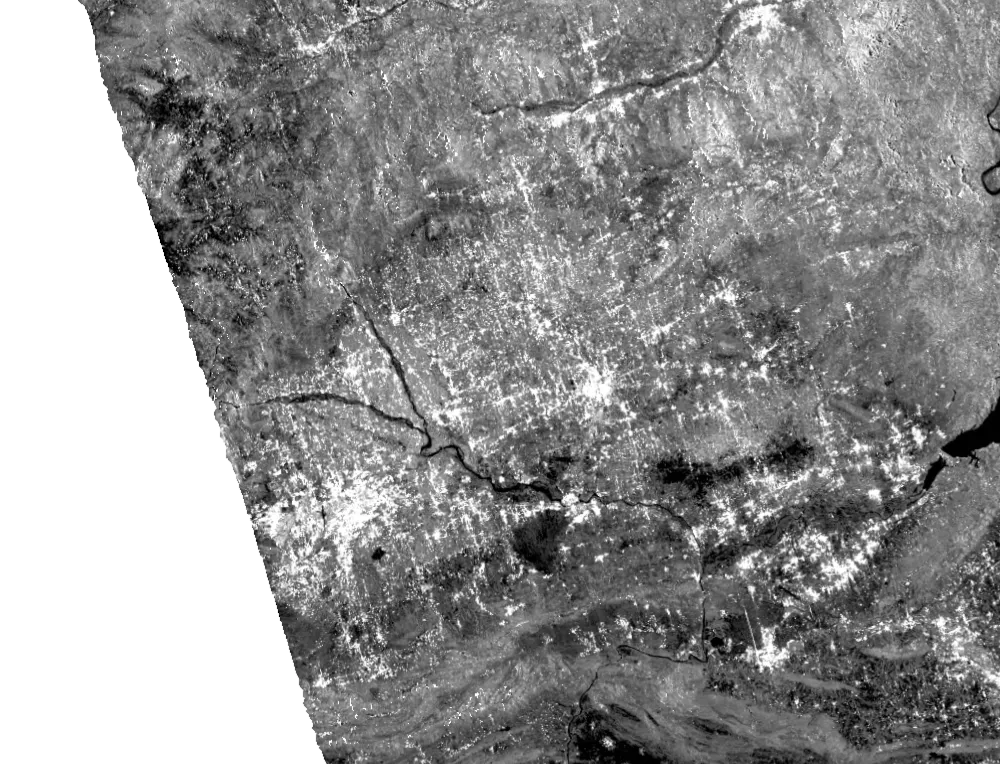
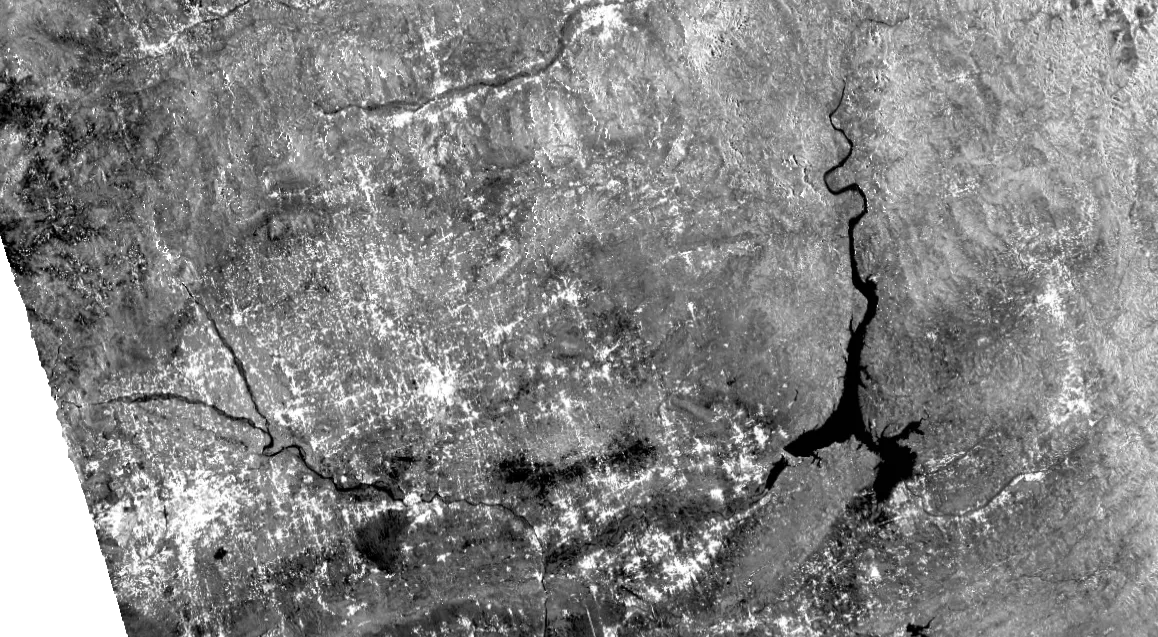
fix: shift the preview display window east and regenerate the frames
The window was 70.9 to 72.8 east, 33.6 to 34.8 north, so much of the stage was empty. It is
now 71.2 to 73.4, 33.8 to 34.8: about 96 percent of it is data on all nine dates, and the
footprint's tilted west edge (71.37 at Peshawar's latitude) stays in view. Regenerated with
run_pipeline preview; every frame keeps identical bounds. The manifest now lists acquisitions.

diff --git a/app/src/publicData.test.ts b/app/src/publicData.test.ts
@@ -25,7 +25,8 @@ describe("the data the app ships (app/public/data)", () => {
     }
     expect(manifest.crid).toBe("P05023");
     expect(manifest.gap).toEqual({ start: "2026-07-27T22:03:25Z", end: "2026-08-10T00:55:27Z" });
-    expect(manifest.bounds).toEqual([70.9, 33.6, 72.8, 34.8]);
+    expect(manifest.bounds).toEqual([71.2, 33.8, 73.4, 34.8]);
+    expect(manifest.acquisitions).toEqual(REAL_DATES);
     expect(manifest.pixel_m).toBeGreaterThan(150);
     expect(manifest.pixel_m).toBeLessThan(200);
   });

diff --git a/processing/tests/test_browse.py b/processing/tests/test_browse.py
@@ -128,6 +128,30 @@ def test_frames_share_identical_bounds_and_the_display_window(tmp_path):
     assert set(info["frames"]) == set(DATES)
 
 
+FOOTPRINTS = Path(__file__).resolve().parents[1] / "reference" / "cmr_footprints.json"
+PESHAWAR = (71.56, 34.01)
+
+
+def _west_edge_lon(corners, lat):
+    """Smallest longitude at which the footprint polygon's edges cross `lat`."""
+    lons = []
+    for (x0, y0), (x1, y1) in zip(corners, corners[1:] + corners[:1]):
+        if min(y0, y1) <= lat <= max(y0, y1) and y0 != y1:
+            lons.append(x0 + (lat - y0) / (y1 - y0) * (x1 - x0))
+    return min(lons)
+
+
+def test_display_window_keeps_the_tilted_west_edge_in_view_at_peshawar_and_is_mostly_data():
+    fps = json.loads(FOOTPRINTS.read_text(encoding="utf-8"))["footprints"]
+    west, south, east, north = DISPLAY_WINDOW
+    assert south < PESHAWAR[1] < north and west < PESHAWAR[0] < east
+    for corners in fps.values():
+        edge = _west_edge_lon(corners, PESHAWAR[1])
+        assert west < edge < PESHAWAR[0], "the footprint's west edge must be inside the window, west of Peshawar"
+        # no more than a fifth of the window's width lies west of the footprint at the window's mid latitude
+        assert _west_edge_lon(corners, (south + north) / 2) - west < 0.2 * (east - west)
+
+
 def test_frames_are_webp_with_alpha_and_transparent_fill(tmp_path):
     frames = {}
     for d in DATES:
@@ -140,7 +164,7 @@ def test_frames_are_webp_with_alpha_and_transparent_fill(tmp_path):
     rgba = np.asarray(img.convert("RGBA"))
     assert rgba[..., 3].min() == 0 and rgba[..., 3].max() == 255
     h, w = rgba.shape[:2]
-    # EXTENT spans 70.5..74.4; the window is 70.9..72.8, so the fill edge (72.45) is inside it
+    # EXTENT spans 70.5..74.4; the window is 71.2..73.4, so the fill edge (72.45) is inside it
     assert rgba[h // 2, 5, 3] == 0          # far west of the window: fill
     assert rgba[h // 2, w - 5, 3] == 255    # far east: real pixels
 
@@ -220,7 +244,7 @@ ALL_DATES = ["2026-07-02", "2026-07-14", "2026-07-26", "2026-08-19", "2026-08-31
 
 def _info(dates):
     return {
-        "bounds": [70.9, 33.6, 72.8, 34.8],
+        "bounds": list(DISPLAY_WINDOW),
         "frames": {d: {"HH": f"frames/{d}_HH.webp", "HV": f"frames/{d}_HV.webp"} for d in dates},
         "composite": "frames/composite_HH.webp",
         "composite_dates": list(COMPOSITE),
@@ -232,7 +256,7 @@ def test_manifest_is_a_provisional_preview_with_no_stretch(tmp_path):
     assert m["maturity"] == "Provisional preview"
     assert m["stretch_db"] is None
     assert m["gap"] == {"start": config.GAP_START, "end": config.GAP_END}
-    assert m["bounds"] == [70.9, 33.6, 72.8, 34.8]
+    assert m["bounds"] == list(DISPLAY_WINDOW)
     assert [e["date"] for e in m["dates"]] == ALL_DATES
     assert m["pixel_m"] == 174
     assert m["crid"] == "P05023" and m["stack"] == config.STACK_ID

diff --git a/processing/sartale/browse.py b/processing/sartale/browse.py
@@ -22,7 +22,7 @@ from sartale.products import bounds_3857_to_lonlat, write_webp_3857
 
 PREVIEW_MATURITY = "Provisional preview"
 # west, south, east, north in degrees: the part of the scene the app shows.
-DISPLAY_WINDOW = (70.9, 33.6, 72.8, 34.8)
+DISPLAY_WINDOW = (71.2, 33.8, 73.4, 34.8)
 # HH of these three dates become red, green and blue. 2 July is never used.
 COMPOSITE_DATES = ("2026-07-26", "2026-09-12", "2026-10-18")
 INTERFERENCE_DATE = "2026-07-02"
